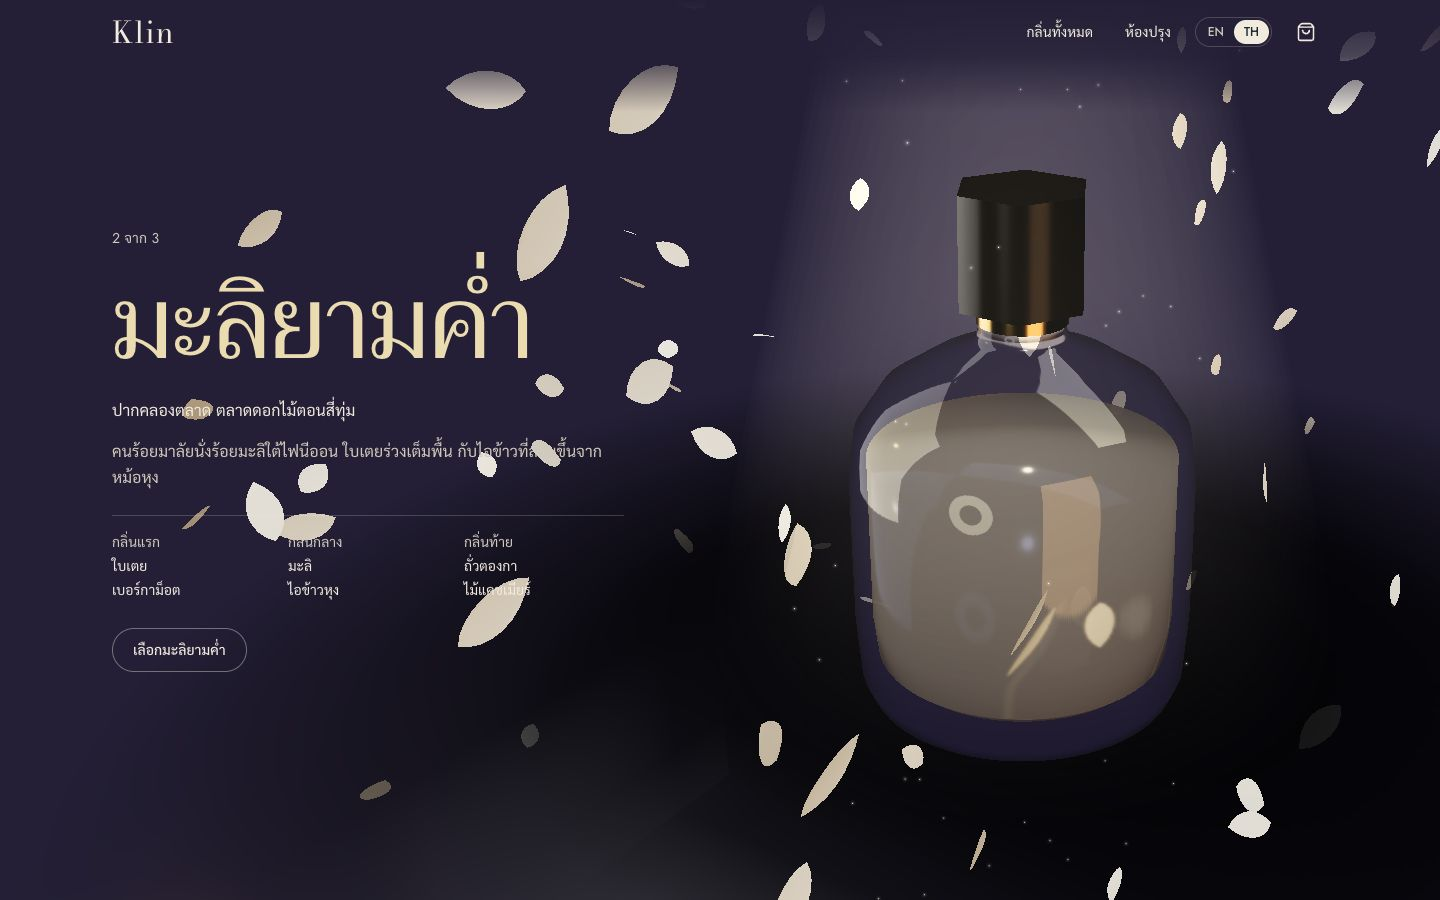
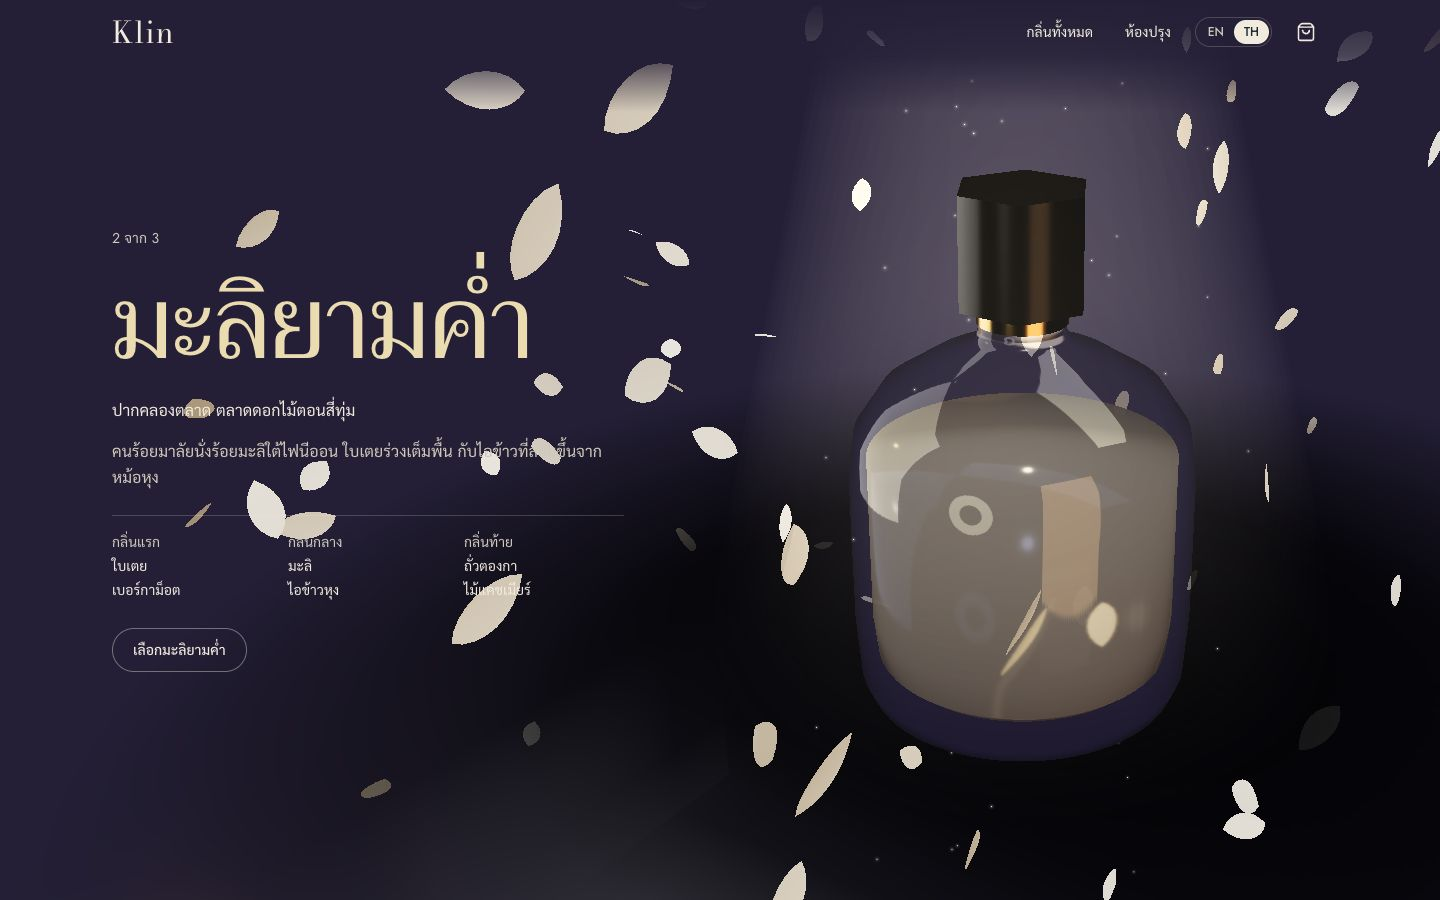
Let Klin's headline fall like rain, and stop stalling on slow machines
As the hero scrolls away, "Bangkok, after the rain." breaks into letters
that fall, drift and fade, each at its own moment, and settle back when
scrolling up. Words stay whole on a line (Thai words found by the
browser's segmenter), the heading keeps its text for assistive tech, and
reduced motion keeps it still.

CI showed a CPU drawing the 3D layer taking seconds a frame, which held
the opening curtain and the scroll. Two very slow frames in a row now
switch the scene to still frames at once, and the page follows the
scroll on every animation frame so it never sticks on a stale position.

diff --git a/src/features/klin/components/klin-page.tsx b/src/features/klin/components/klin-page.tsx
@@ -1,7 +1,7 @@
 "use client"
 
 import dynamic from "next/dynamic"
-import { Component, useEffect, useRef, useState, useSyncExternalStore, type ReactNode } from "react"
+import { Component, Fragment, useEffect, useMemo, useRef, useState, useSyncExternalStore, type ReactNode } from "react"
 import Lenis from "lenis"
 import "lenis/dist/lenis.css"
 import { SkipLink } from "@/components/skip-link"
@@ -9,6 +9,7 @@ import { useLocale } from "@/i18n/locale-provider"
 import { cn } from "@/lib/utils"
 import { klin, scents, type Scent, type ScentId } from "../data/scents"
 import { klinMessages } from "../i18n/messages"
+import { headlinePieces } from "../lib/headline"
 import { formatPrice, sceneAt, storyPosition, type SceneState, type SectionBox } from "../lib/story"
 import { KlinHeader } from "./header"
 import { KlinIntro } from "./intro"
@@ -91,11 +92,14 @@ export function KlinPage() {
       }
     }
     const update = () => {
-      const scene = sceneAt(storyPosition(window.scrollY, window.innerHeight, layout))
+      const position = storyPosition(window.scrollY, window.innerHeight, layout)
+      const scene = sceneAt(position)
       state.current = scene
       page.style.setProperty("--klin-backdrop", scene.backdrop)
       page.style.setProperty("--klin-accent", scene.accent)
       page.dataset.scent = scene.scent.id
+      // The headline's letters fall as the hero scrolls away (not for reduced motion, where data-motion is never set)
+      page.style.setProperty("--fall", page.dataset.motion === undefined ? "0" : String(position.hero))
       // Which grab handles to show: over the single bottle, over the line-up, or none (cards and atelier)
       page.dataset.stage = scene.exit > 0.45 ? "off" : scene.lineup > 0.6 ? "lineup" : scene.lineup > 0.12 ? "off" : "single"
     }
@@ -107,9 +111,20 @@ export function KlinPage() {
     })
     resize.observe(document.body)
     window.addEventListener("scroll", update, { passive: true })
+    // Also catch up on the next frame whenever the scroll moved without an event reaching us in time
+    // (the smooth scroller and a busy main thread can both delay one), so the page never sticks on a stale position
+    let lastY = window.scrollY
+    let frame = requestAnimationFrame(function follow() {
+      if (window.scrollY !== lastY) {
+        lastY = window.scrollY
+        update()
+      }
+      frame = requestAnimationFrame(follow)
+    })
     return () => {
       resize.disconnect()
       window.removeEventListener("scroll", update)
+      cancelAnimationFrame(frame)
     }
   }, [])
 
@@ -161,15 +176,13 @@ export function KlinPage() {
             {/* On phones the hero text sits over the storm's light; a fade of the page colour keeps it legible */}
             <div className="relative max-w-xl before:absolute before:-inset-x-5 before:-top-20 before:-bottom-24 before:-z-10 before:bg-gradient-to-t before:from-[var(--klin-backdrop)] before:via-[var(--klin-backdrop)]/85 before:to-transparent md:max-w-[52%] md:before:hidden">
               <p className="klin-rise text-sm text-muted-foreground">{t.tagline}</p>
+              {/* No mask reveal here: the opening curtain reveals it, and its letters fall like rain as the hero scrolls away */}
               <h1
                 id="klin-title"
-                className={cn(
-                  "klin-rise mt-4 font-heading text-[clamp(3.25rem,9vw,8.75rem)] tracking-[-0.02em] text-balance",
-                  locale === "th" ? "leading-[1.15]" : "leading-[0.92]",
-                )}
-                style={{ "--i": 1 } as React.CSSProperties}
+                aria-label={t.hero.title}
+                className={cn("mt-4 font-heading text-[clamp(3.25rem,9vw,8.75rem)] tracking-[-0.02em]", locale === "th" ? "leading-[1.15]" : "leading-[0.92]")}
               >
-                {t.hero.title}
+                <RainHeadline text={t.hero.title} locale={locale} />
               </h1>
               <p className="klin-rise mt-5 max-w-[46ch] leading-relaxed text-muted-foreground md:mt-6 md:text-lg" style={{ "--i": 2 } as React.CSSProperties}>
                 {t.hero.body}
@@ -287,6 +300,33 @@ export function KlinPage() {
         }}
       />
     </div>
+  )
+}
+
+/**
+ * The hero headline as letters kept in whole words (so lines still break
+ * between words), each falling, drifting and fading by `--fall` (the hero's
+ * scroll, 0–1) after its own delay; see .klin-fall in globals.css. Hidden from
+ * assistive tech: the heading carries the text as its label.
+ */
+function RainHeadline({ text, locale }: { text: string; locale: string }) {
+  const pieces = useMemo(() => headlinePieces(text, locale), [text, locale])
+  return (
+    <span aria-hidden="true" className="klin-fall">
+      {pieces.map((piece, i) =>
+        "space" in piece ? (
+          <Fragment key={i}>{piece.space}</Fragment>
+        ) : (
+          <span key={i} className="klin-fall-word">
+            {piece.word.map((letter, j) => (
+              <span key={j} className="klin-fall-letter" style={{ "--d": letter.delay, "--s": letter.sway } as React.CSSProperties}>
+                {letter.text}
+              </span>
+            ))}
+          </span>
+        ),
+      )}
+    </span>
   )
 }
 

diff --git a/tests/e2e/klin.spec.ts b/tests/e2e/klin.spec.ts
@@ -51,15 +51,40 @@ test.describe("Klin perfume house", () => {
   test("opens with a curtain that parts, and parts straight away on a return visit", async ({ page }) => {
     await page.goto("/en/klin")
     const intro = page.getByTestId("klin-intro")
-    await expect(intro).toHaveAttribute("data-state", "hold")
+    // Holding (or already parting, if the page was slow to load)
+    await expect(intro).toHaveAttribute("data-state", /^(hold|reveal)$/)
     // It's only a picture: the page beneath can be used while it's up
     await expect(intro).toHaveAttribute("aria-hidden", "true")
     await expect(intro).toHaveCSS("pointer-events", "none")
-    await expect(intro).toHaveCount(0, { timeout: 10_000 })
+    await expect(intro).toHaveCount(0, { timeout: 15_000 })
     expect(await page.evaluate(() => localStorage.getItem("klin:intro-seen"))).toBe("1")
     // A return visit parts at once (exact timings are covered by the integration test; a CPU-drawn page here runs slow)
     await page.reload()
     await expect(intro).toHaveCount(0, { timeout: 10_000 })
+  })
+
+  test("the headline falls like rain as the hero scrolls away, and comes back", async ({ page }) => {
+    await page.goto("/en/klin")
+    await expect(page.getByRole("heading", { level: 1, name: "Bangkok, after the rain." })).toBeVisible()
+    const letters = page.locator(".klin-fall-letter")
+    await expect(letters).toHaveCount("Bangkok,afterthe rain.".replace(" ", "").length)
+    const moved = () => letters.evaluateAll((all) => all.filter((letter) => getComputedStyle(letter).transform !== "matrix(1, 0, 0, 1, 0, 0)" && getComputedStyle(letter).transform !== "none").length)
+    // Scroll changes reach the page with its next frame, which is slow when the 3D layer is drawn on the CPU
+    await page.evaluate(() => window.scrollTo(0, 0))
+    await expect.poll(moved, { timeout: 15_000 }).toBe(0)
+    await page.evaluate(() => window.scrollTo(0, window.innerHeight * 0.5))
+    await expect.poll(moved, { timeout: 15_000 }).toBeGreaterThan(10)
+    // Back at the top every letter is home (scrolling again inside the poll: under load the smooth
+    // scroller can still be easing toward the earlier position when the first jump lands)
+    await expect
+      .poll(
+        async () => {
+          await page.evaluate(() => window.scrollTo(0, 0))
+          return moved()
+        },
+        { timeout: 15_000 },
+      )
+      .toBe(0)
   })
 
   test("bottles spin when dragged, and the handles never cover the page's own controls", async ({ page }) => {
@@ -100,6 +125,9 @@ test.describe("Klin perfume house", () => {
     await page.goto("/en/klin")
     await expect(page.getByTestId("klin-page")).not.toHaveAttribute("data-motion")
     await expect(page.getByTestId("klin-intro")).toBeHidden()
+    // The headline stays put
+    await page.evaluate(() => window.scrollTo(0, window.innerHeight * 0.5))
+    expect(await page.locator(".klin-fall-letter").first().evaluate((letter) => getComputedStyle(letter).transform)).toMatch(/^(none|matrix\(1, 0, 0, 1, 0, 0\))$/)
     await expect(page.locator("html.lenis")).toHaveCount(0)
     await page.locator("#agarwood-dusk").scrollIntoViewIfNeeded()
     await expect(page.getByRole("heading", { level: 2, name: "Agarwood Dusk" })).toBeVisible()

diff --git a/tests/unit/klin-headline.test.ts b/tests/unit/klin-headline.test.ts
@@ -1,0 +1,38 @@
+import { describe, expect, it } from "vitest"
+import { headlinePieces } from "@/features/klin/lib/headline"
+
+const text = (pieces: ReturnType<typeof headlinePieces>) => pieces.map((piece) => ("space" in piece ? piece.space : piece.word.map((letter) => letter.text).join(""))).join("")
+
+describe("headlinePieces", () => {
+  it("keeps the whole headline, word by word and letter by letter", () => {
+    const pieces = headlinePieces("Bangkok, after the rain.", "en")
+    expect(text(pieces)).toBe("Bangkok, after the rain.")
+    expect(pieces.filter((piece) => "space" in piece)).toHaveLength(3)
+    // Punctuation stays with its word
+    const words = pieces.filter((piece) => "word" in piece).map((piece) => ("word" in piece ? piece.word.map((letter) => letter.text).join("") : ""))
+    expect(words).toEqual(["Bangkok,", "after", "the", "rain."])
+  })
+
+  it("finds Thai words, and keeps each Thai letter with its marks", () => {
+    const pieces = headlinePieces("กรุงเทพฯ หลังฝนซา", "th")
+    expect(text(pieces)).toBe("กรุงเทพฯ หลังฝนซา")
+    const words = pieces.filter((piece) => "word" in piece)
+    expect(words.length).toBeGreaterThan(2)
+    const letters = words.flatMap((piece) => ("word" in piece ? piece.word.map((letter) => letter.text) : []))
+    expect(letters).toContain("รุ")
+    expect(letters).toContain("ลั")
+  })
+
+  it("gives every letter its own moment and drift, the same every time", () => {
+    const pieces = headlinePieces("Bangkok, after the rain.", "en")
+    expect(headlinePieces("Bangkok, after the rain.", "en")).toEqual(pieces)
+    for (const piece of pieces) {
+      if ("space" in piece) continue
+      for (const letter of piece.word) {
+        expect(letter.delay).toBeGreaterThanOrEqual(0)
+        expect(letter.delay).toBeLessThanOrEqual(0.45)
+        expect(Math.abs(letter.sway)).toBeLessThanOrEqual(1)
+      }
+    }
+  })
+})

diff --git a/src/features/klin/components/scene.tsx b/src/features/klin/components/scene.tsx
@@ -10,7 +10,7 @@ import { scents, type ScentId } from "../data/scents"
 import { bottleProfile, liquidProfile, sizeFactors } from "../lib/bottle"
 import { valueNoise } from "../lib/noise"
 import { coastBoard, type BottleSlot, type SpinBoard } from "../lib/spin"
-import { CAMERA_SHOTS, cameraShot, lightning, mixHex, nearestTurn, nextTier, type CameraShot, type SceneState, type Tier } from "../lib/story"
+import { CAMERA_SHOTS, cameraShot, lightning, mixHex, nearestTurn, nextTier, stalling, type CameraShot, type SceneState, type Tier } from "../lib/story"
 
 /**
  * The fixed WebGL layer behind the page, painted in the page's own colour: a
@@ -98,13 +98,17 @@ export function KlinScene({
  * Watches the frame rate in 1.5-second windows (after the first, while shaders
  * compile) and moves between looks: a big screen that holds a good rate earns
  * the full look, one that sags drops back, and a device that can barely draw
- * (a weak laptop, a headless browser on the CPU) settles on still frames.
+ * (a weak laptop, a headless browser on the CPU) settles on still frames, at
+ * once if frames take whole seconds.
  */
 function Governor({ rich, tier, onChange }: { rich: boolean; tier: Tier; onChange: (tier: Tier) => void }) {
-  const meter = useRef({ start: -1, frames: 0, readings: [] as number[] })
-  useFrame(({ clock }) => {
+  const meter = useRef({ start: -1, frames: 0, readings: [] as number[], recent: [] as number[] })
+  useFrame(({ clock }, delta) => {
     const now = clock.elapsedTime
     const w = meter.current
+    // Frames taking whole seconds (a CPU drawing WebGL on a busy machine) go straight to still frames
+    w.recent = [...w.recent.slice(-1), delta]
+    if (w.frames > 0 && stalling(w.recent)) return onChange("still")
     if (w.start < 0) w.start = now
     w.frames++
     if (now - w.start < 1.5) return

diff --git a/src/features/klin/lib/headline.ts b/src/features/klin/lib/headline.ts
@@ -1,0 +1,42 @@
+import { createRandom } from "@/lib/random"
+
+export interface FallingLetter {
+  text: string
+  /** Share of the hero's scroll before this letter lets go, 0–0.45. */
+  delay: number
+  /** Which way and how much it drifts and turns as it falls, −1 to 1. */
+  sway: number
+}
+
+/** A word kept whole on one line, or the space between words. */
+export type HeadlinePiece = { word: FallingLetter[] } | { space: string }
+
+/**
+ * Splits a headline into words (Thai words found by the browser's word
+ * segmenter, so lines still break between words) and each word into letters
+ * as a reader sees them (a Thai letter keeps its marks), each with its own
+ * moment to fall and drift, the same every time.
+ */
+export function headlinePieces(text: string, locale: string): HeadlinePiece[] {
+  const random = createRandom(`klin:headline:${text}`)
+  const words = new Intl.Segmenter(locale, { granularity: "word" })
+  const graphemes = new Intl.Segmenter(locale, { granularity: "grapheme" })
+  const letters = (segment: string) =>
+    Array.from(graphemes.segment(segment), ({ segment: letter }) => ({
+      text: letter,
+      delay: Math.round(random() * 45) / 100,
+      sway: Math.round((random() * 2 - 1) * 100) / 100,
+    }))
+  const pieces: HeadlinePiece[] = []
+  for (const { segment, isWordLike } of words.segment(text)) {
+    if (/^\s+$/.test(segment)) {
+      pieces.push({ space: segment })
+      continue
+    }
+    // Punctuation stays with the word before it, so "Bangkok," never wraps its comma onto the next line
+    const last = pieces.at(-1)
+    if (!isWordLike && last && "word" in last) last.word.push(...letters(segment))
+    else pieces.push({ word: letters(segment) })
+  }
+  return pieces
+}

diff --git a/src/app/globals.css b/src/app/globals.css
@@ -1077,3 +1077,21 @@ main[data-motion] [data-split]:not([data-shown]) .split-line {
     left: 66%;
   }
 }
+
+/*
+ * Klin's hero headline falls like rain as the hero scrolls away: --fall (0–1)
+ * comes from the scroll, each letter waits its own --d, then drops with a
+ * gravity curve, drifting and turning by --s and fading. Scrolling back up
+ * puts every letter back.
+ */
+.klin-fall-word {
+  display: inline-block;
+  white-space: nowrap;
+}
+.klin-fall-letter {
+  --f: clamp(0, (var(--fall, 0) - var(--d, 0)) * 2.2, 1);
+  display: inline-block;
+  transform: translate3d(calc(var(--s, 0) * var(--f) * 2.5rem), calc(var(--f) * var(--f) * 70vh), 0) rotate(calc(var(--s, 0) * var(--f) * 50deg));
+  opacity: calc(1 - var(--f) * 1.3);
+  will-change: transform;
+}

diff --git a/src/features/klin/lib/story.ts b/src/features/klin/lib/story.ts
@@ -205,3 +205,17 @@ export function nearestTurn(current: number, target: number): number {
   const full = Math.PI * 2
   return target + full * Math.round((current - target) / full)
 }
+
+/** Longest a frame may take before it counts as a stall, in seconds. */
+export const STALL = 0.35
+
+/**
+ * Whether the latest frames say the device can't animate the scene at all:
+ * two in a row each taking longer than `STALL`. Waiting for frame-rate windows
+ * would take ages at that pace (and block the page meanwhile), so the scene
+ * drops to still frames at once.
+ */
+export function stalling(frameSeconds: readonly number[]): boolean {
+  const last = frameSeconds.slice(-2)
+  return last.length === 2 && last.every((seconds) => seconds > STALL)
+}

diff --git a/tests/unit/klin-story.test.ts b/tests/unit/klin-story.test.ts
@@ -241,3 +241,14 @@ describe("nearestTurn", async () => {
     expect(Math.abs(nearestTurn(-7, 1) - -7)).toBeLessThanOrEqual(Math.PI)
   })
 })
+
+describe("stalling", async () => {
+  const { stalling } = await import("@/features/klin/lib/story")
+
+  it("gives up on animation after two very slow frames in a row, not one hitch", () => {
+    expect(stalling([0.016, 0.9])).toBe(false)
+    expect(stalling([0.9, 0.016, 0.9])).toBe(false)
+    expect(stalling([0.016, 0.5, 2.4])).toBe(true)
+    expect(stalling([])).toBe(false)
+  })
+})

diff --git a/ROADMAP.md b/ROADMAP.md
@@ -47,7 +47,8 @@ Asked for on 2026-11-01: a showcase that goes big on visual effects, 3D and scro
 - [x] An intro reveal before the hero (as in Rahasya Fragrances' intro): a curtain in the storm's colour with the house name and a drop running down a thin line holds while the 3D layer loads its textures (1–1.6 s), then twelve soft-topped strips fall away like sheets of rain, parting from the bottle's side (seeded, uneven delays). Return visits part straight away, reduced motion never shows it, and it's only a picture (aria-hidden, no pointer events, lifts by itself after 4 s if script stalls)
 - [x] Drag to spin a bottle (the main bottle in a chapter, each bottle in the line-up): invisible handles over where the bottles are drawn (the 3D layer takes no pointer events) turn a bottle with a sideways drag; it coasts on and slows after release (smoothed velocity, capped, exponential decay; stops at once for reduced motion), as in the Phantom.land grid. The mouse over a bottle lifts it a little into the beam. Handles show only over the bottles (never the text, cards or atelier), vertical touch drags still scroll, and devices on still frames get a frame per drag
 - [x] Found while building it: the dev server again served stale CSS after new globals.css rules (handles "hidden"); a restart with a fresh `.next-dev` fixed it. Production builds are unaffected
-- [ ] The hero headline breaks into letters that drop away like rain as the hero scrolls off (SplitText chars, positions tied to scroll so frozen-clock tests still settle), as in the Osmo/Codrops falling-text demo; they fall back into place scrolling up
+- [x] The hero headline breaks into letters that drop away like rain as the hero scrolls off, as in the Osmo/Codrops falling-text demo: words (Thai words from the browser's word segmenter, punctuation kept with its word) hold whole on a line, each letter (with its marks) waits its own seeded moment, then falls on a gravity curve, drifting, turning and fading, all in CSS from one `--fall` value the scroll sets, so it reverses scrolling up and frozen-clock tests settle. The heading keeps its text as its label; reduced motion keeps it still; the opening curtain is its reveal
+- [x] Found while fixing CI: on GitHub's 2-CPU runners SwiftShader frames took several seconds, blocking timers and scroll events, so the curtain overstayed and the governor took too long to give up. Two frames over 0.35 s in a row now drop the scene to still frames at once; the page also follows the scroll position on each animation frame, not only on scroll events, so it never sticks on a stale one
 - [ ] Scroll speed as an effect (as in Codrops' wavy carousels, a `uScrollSpeed` uniform from Lenis's velocity): rain streaks stretch and slant harder, ripples spread faster and the petals scatter when scrolling fast, settling when the page stops
 - [ ] More from award-winning 3D sites (asked for 2026-11-01: make every section as different and spectacular as possible, keep researching): a preloader where the bottle fills as assets load; hero title letters that split and fall like rain on scroll (GSAP SplitText); Jasmine with strings of market bulbs glowing out of focus; drag to spin a bottle in the collection, with hover lifting it into the beam; scroll-speed blur/distortion on the canvas; a custom cursor that becomes a droplet over the bottle; magnetic buttons; an optional rain soundscape toggle (off by default)
 - [ ] Share cards (`og-cards.tsx`, layout `openGraph.images`), and a quick Lighthouse check of the page (the 3D layer is code-split and loads after the text)
